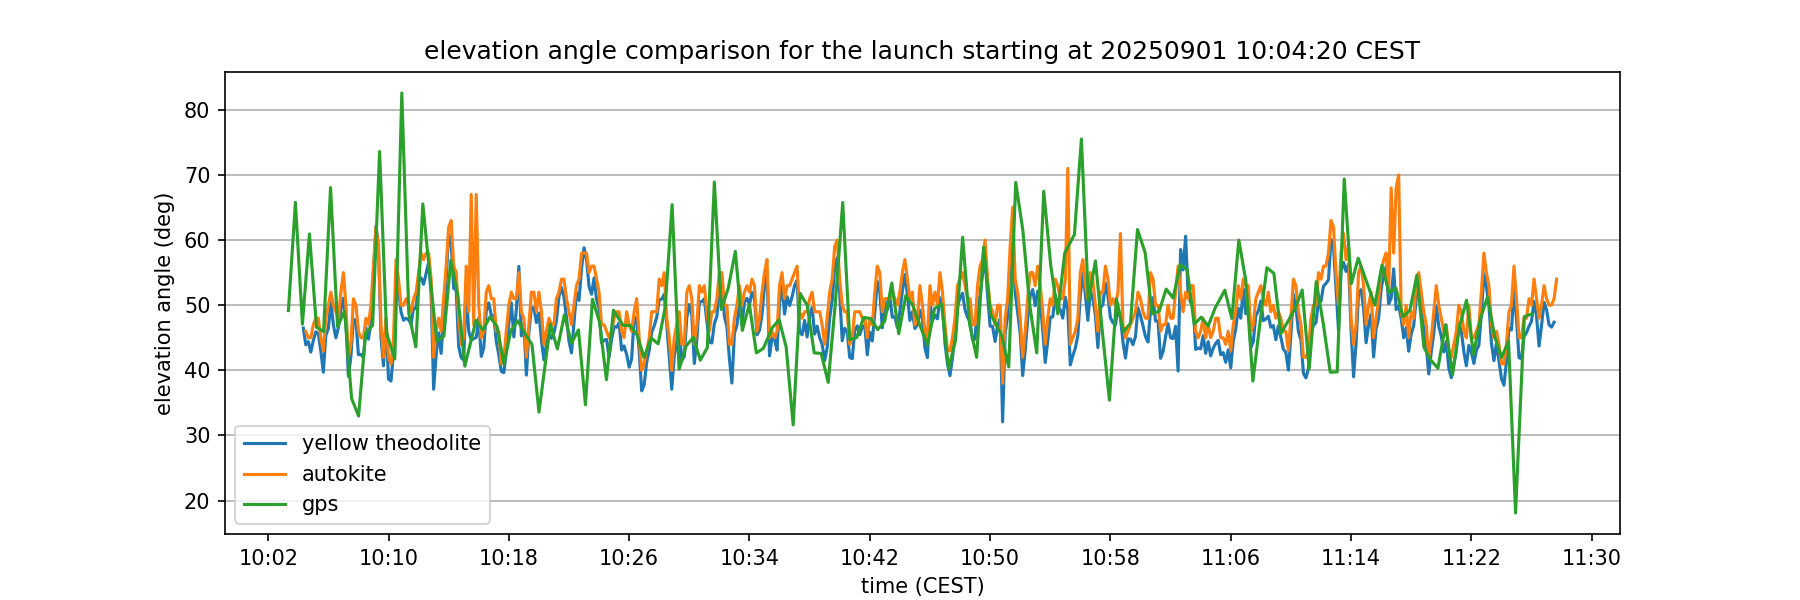
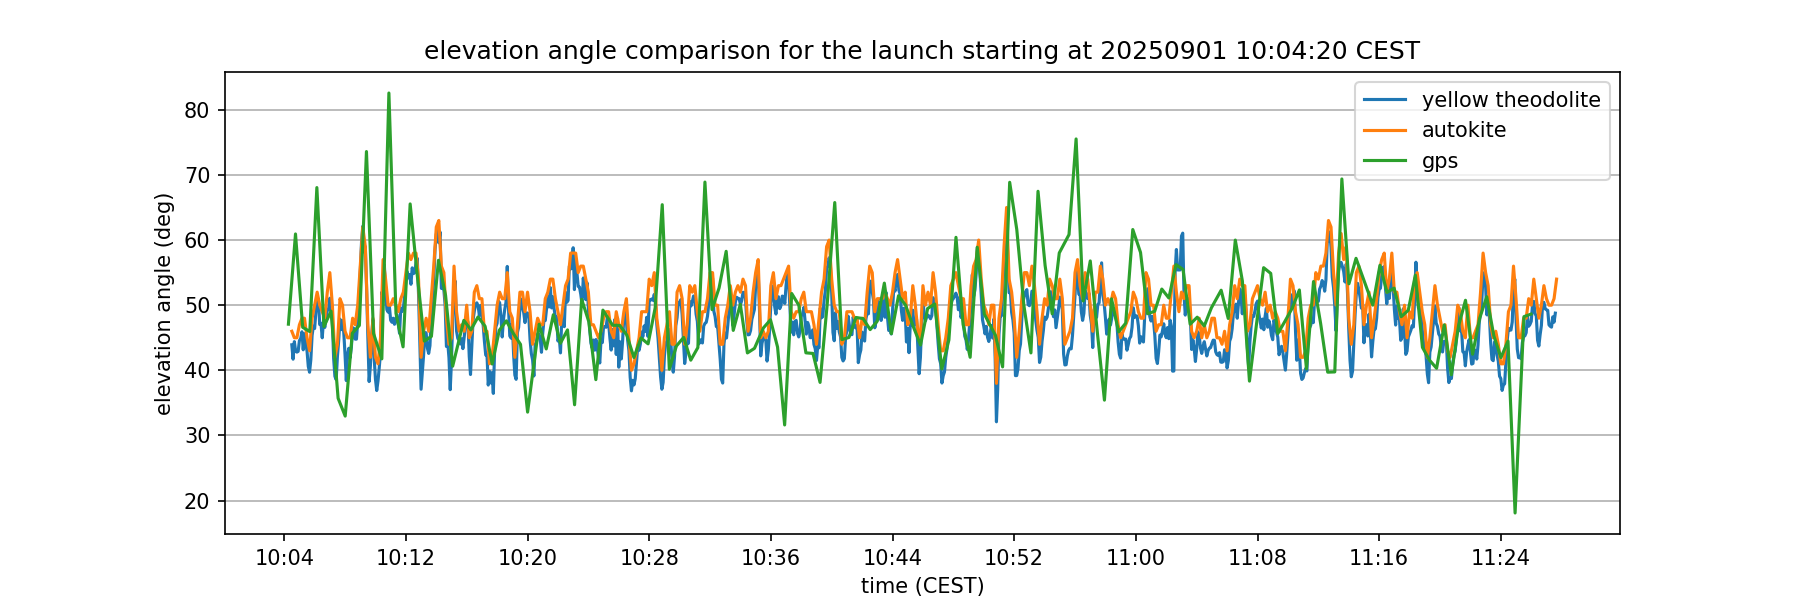
rerun for the launch 20250901 morning

diff --git a/src/autokite/elevation_comparison.py b/src/autokite/elevation_comparison.py
@@ -10,16 +10,16 @@ from functions_autokite import pixel_to_sky_angles
 
 matplotlib.use("Qt5Agg")  # "TkAgg"
 
-DATE = "20250903"
-time = "10:49:20 CEST"
+DATE = "20250901"
+time = "10:04:20 CEST"
 time_measured = "morning"
 semikite_filename = f"../semikite/coordinates_semikite_{DATE}_{time_measured}.pckl"
 
 # theodolite part
-theodolite = pd.read_csv(f'coordinates/{DATE}/theodolite_angles_{DATE}_{time_measured}.csv').reset_index(drop=True)
+theodolite = pd.read_csv(f'coordinates/{DATE}/yellow_theodolite_angles_{DATE}_{time_measured}.csv').reset_index(drop=True)[2:]
 theodolite.set_index('time_sec', drop=True, inplace=True)
 theodolite.index = pd.to_datetime(theodolite.index, format="%Y-%m-%d %H:%M:%S")
-# theodolite.index += timedelta(minutes=1)
+theodolite.index += timedelta(minutes=1)
 theo_elevation = theodolite["elevation"]
 
 # autokite part
@@ -43,14 +43,14 @@ autokite.update(semikite)
 autokite.reset_index(inplace=True)
 autokite.set_index('time', drop=True, inplace=True)
 autokite.index = pd.to_datetime(autokite.index, format="%Y%m%d_%H%M%S")
-autokite.index += timedelta(hours=1)
+# autokite.index += timedelta(hours=1)
 autokite_elevation = autokite["elevation"]
 
 # GPS
 gps = pd.read_csv(f'gps_results/{DATE}_{time_measured}.csv')[2:]
 gps.set_index('time', drop=True, inplace=True)
 gps.index = pd.to_datetime(gps.index)
-gps.index += timedelta(hours=2)
+gps.index += timedelta(hours=1)
 gps_elevation = gps["elevation_angle"]
 
 # plotting part
